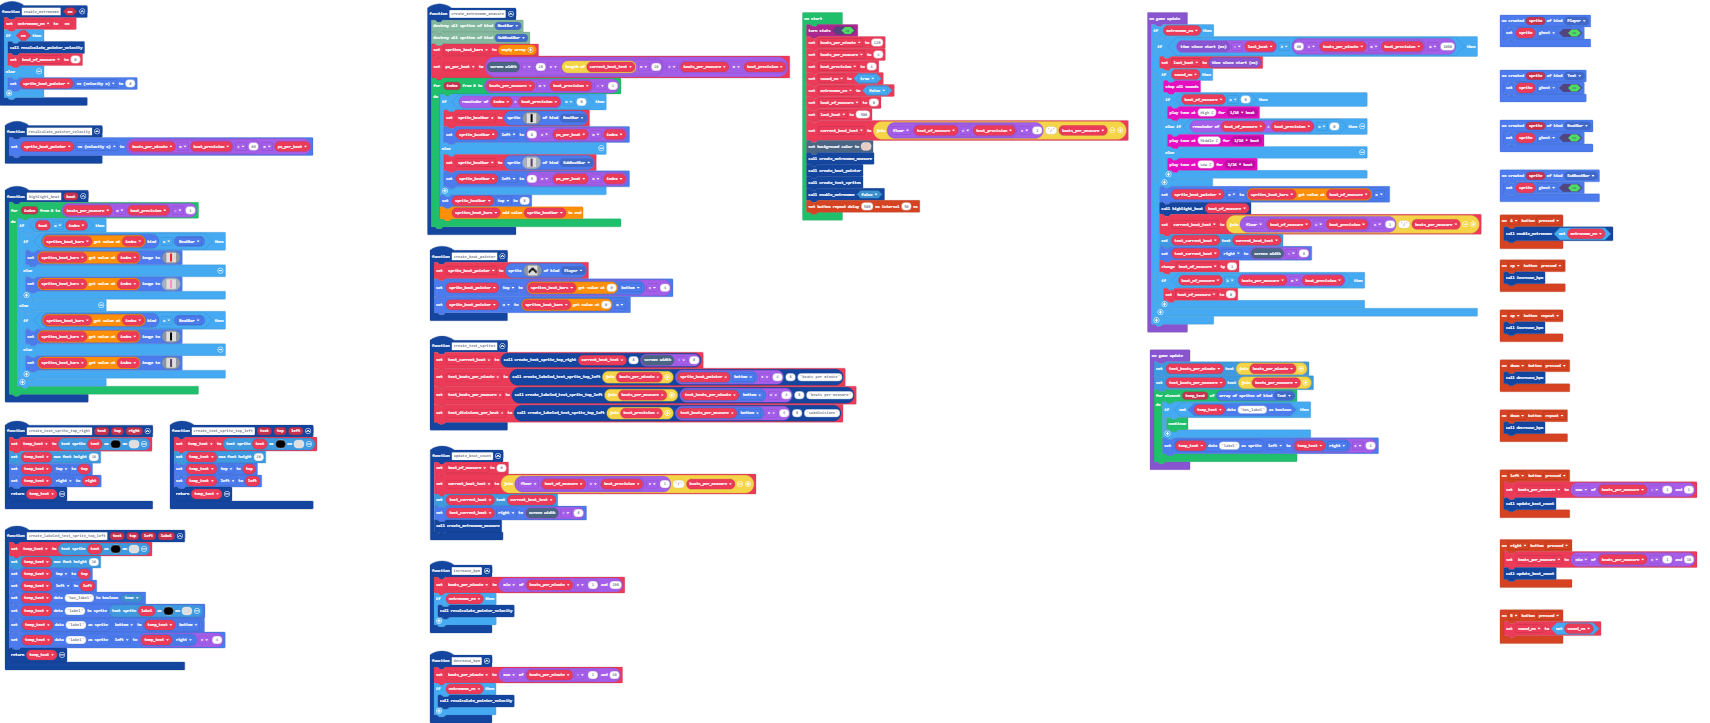
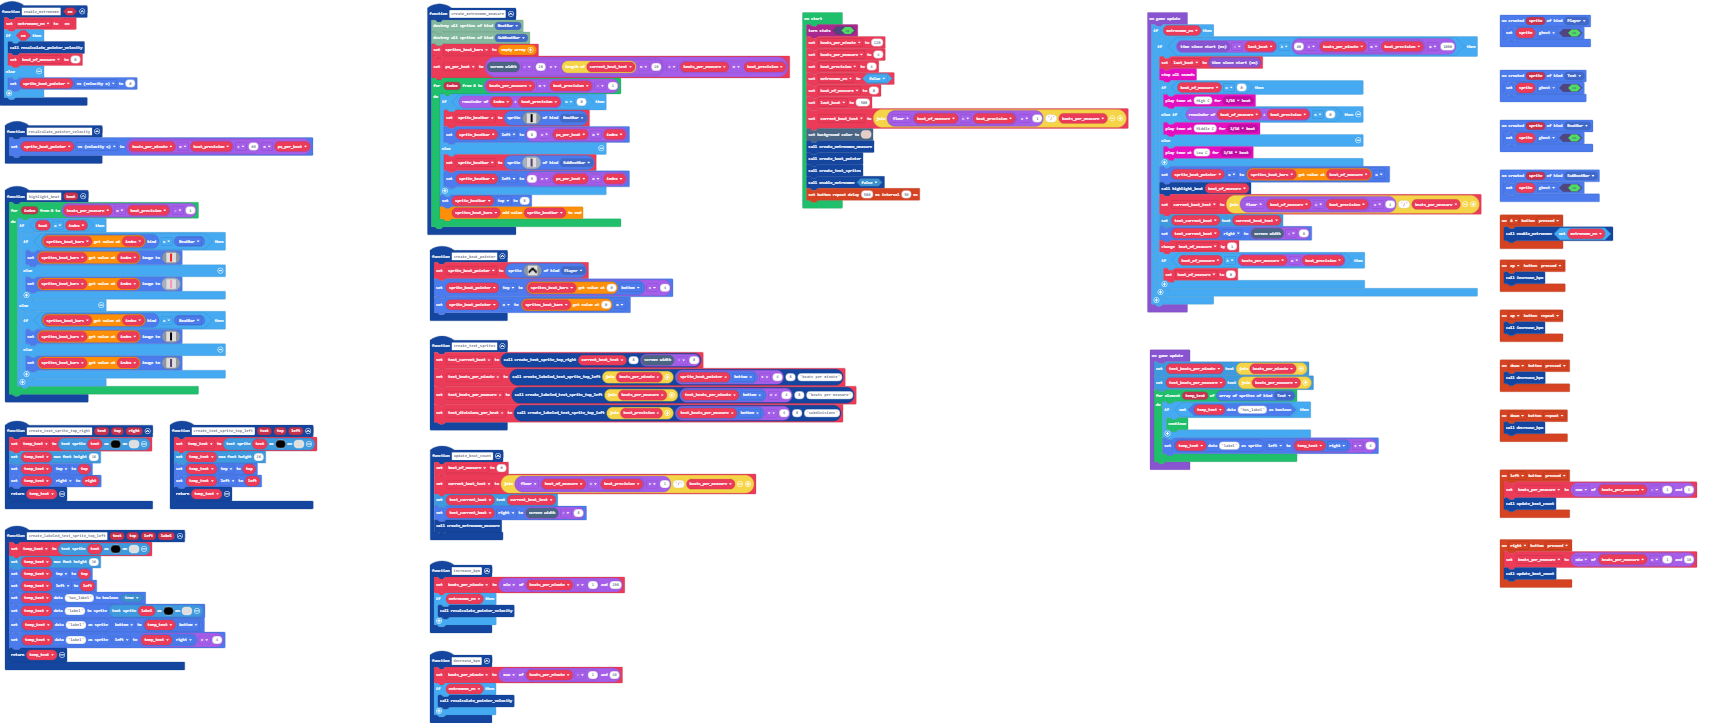
Remove sound control

Changed region(s): [[0.4649, 0.0913, 0.8678, 0.4564], [0.8678, 0.8216, 0.9608, 0.9129]]

diff --git a/main.ts b/main.ts
@@ -29,9 +29,6 @@ function create_beat_pointer () {
 controller.up.onEvent(ControllerButtonEvent.Pressed, function () {
     increase_bpm()
 })
-controller.B.onEvent(ControllerButtonEvent.Pressed, function () {
-    sound_en = !(sound_en)
-})
 function create_text_sprite_top_right (text: string, top: number, right: number) {
     temp_text = textsprite.create(text, 0, 15)
     temp_text.setMaxFontHeight(16)
@@ -153,7 +150,6 @@ let text_current_beat: TextSprite = null
 let current_beat_text = ""
 let beat_of_measure = 0
 let metronome_en = false
-let sound_en = false
 let beat_precision = 0
 let beats_per_measure = 0
 let beats_per_minute = 0
@@ -161,7 +157,6 @@ stats.turnStats(true)
 beats_per_minute = 120
 beats_per_measure = 4
 beat_precision = 4
-sound_en = true
 metronome_en = false
 beat_of_measure = 0
 let last_beat = -500
@@ -176,15 +171,13 @@ game.onUpdate(function () {
     if (metronome_en) {
         if (game.runtime() - last_beat >= 60 / (beats_per_minute * beat_precision) * 1000) {
             last_beat = game.runtime()
-            if (sound_en) {
-                music.stopAllSounds()
-                if (beat_of_measure == 0) {
-                    music.playTone(523, music.beat(BeatFraction.Sixteenth))
-                } else if (beat_of_measure % beat_precision == 0) {
-                    music.playTone(262, music.beat(BeatFraction.Sixteenth))
-                } else {
-                    music.playTone(131, music.beat(BeatFraction.Sixteenth))
-                }
+            music.stopAllSounds()
+            if (beat_of_measure == 0) {
+                music.playTone(523, music.beat(BeatFraction.Sixteenth))
+            } else if (beat_of_measure % beat_precision == 0) {
+                music.playTone(262, music.beat(BeatFraction.Sixteenth))
+            } else {
+                music.playTone(131, music.beat(BeatFraction.Sixteenth))
             }
             sprite_beat_pointer.x = sprites_beat_bars[beat_of_measure].x
             highlight_beat(beat_of_measure)
